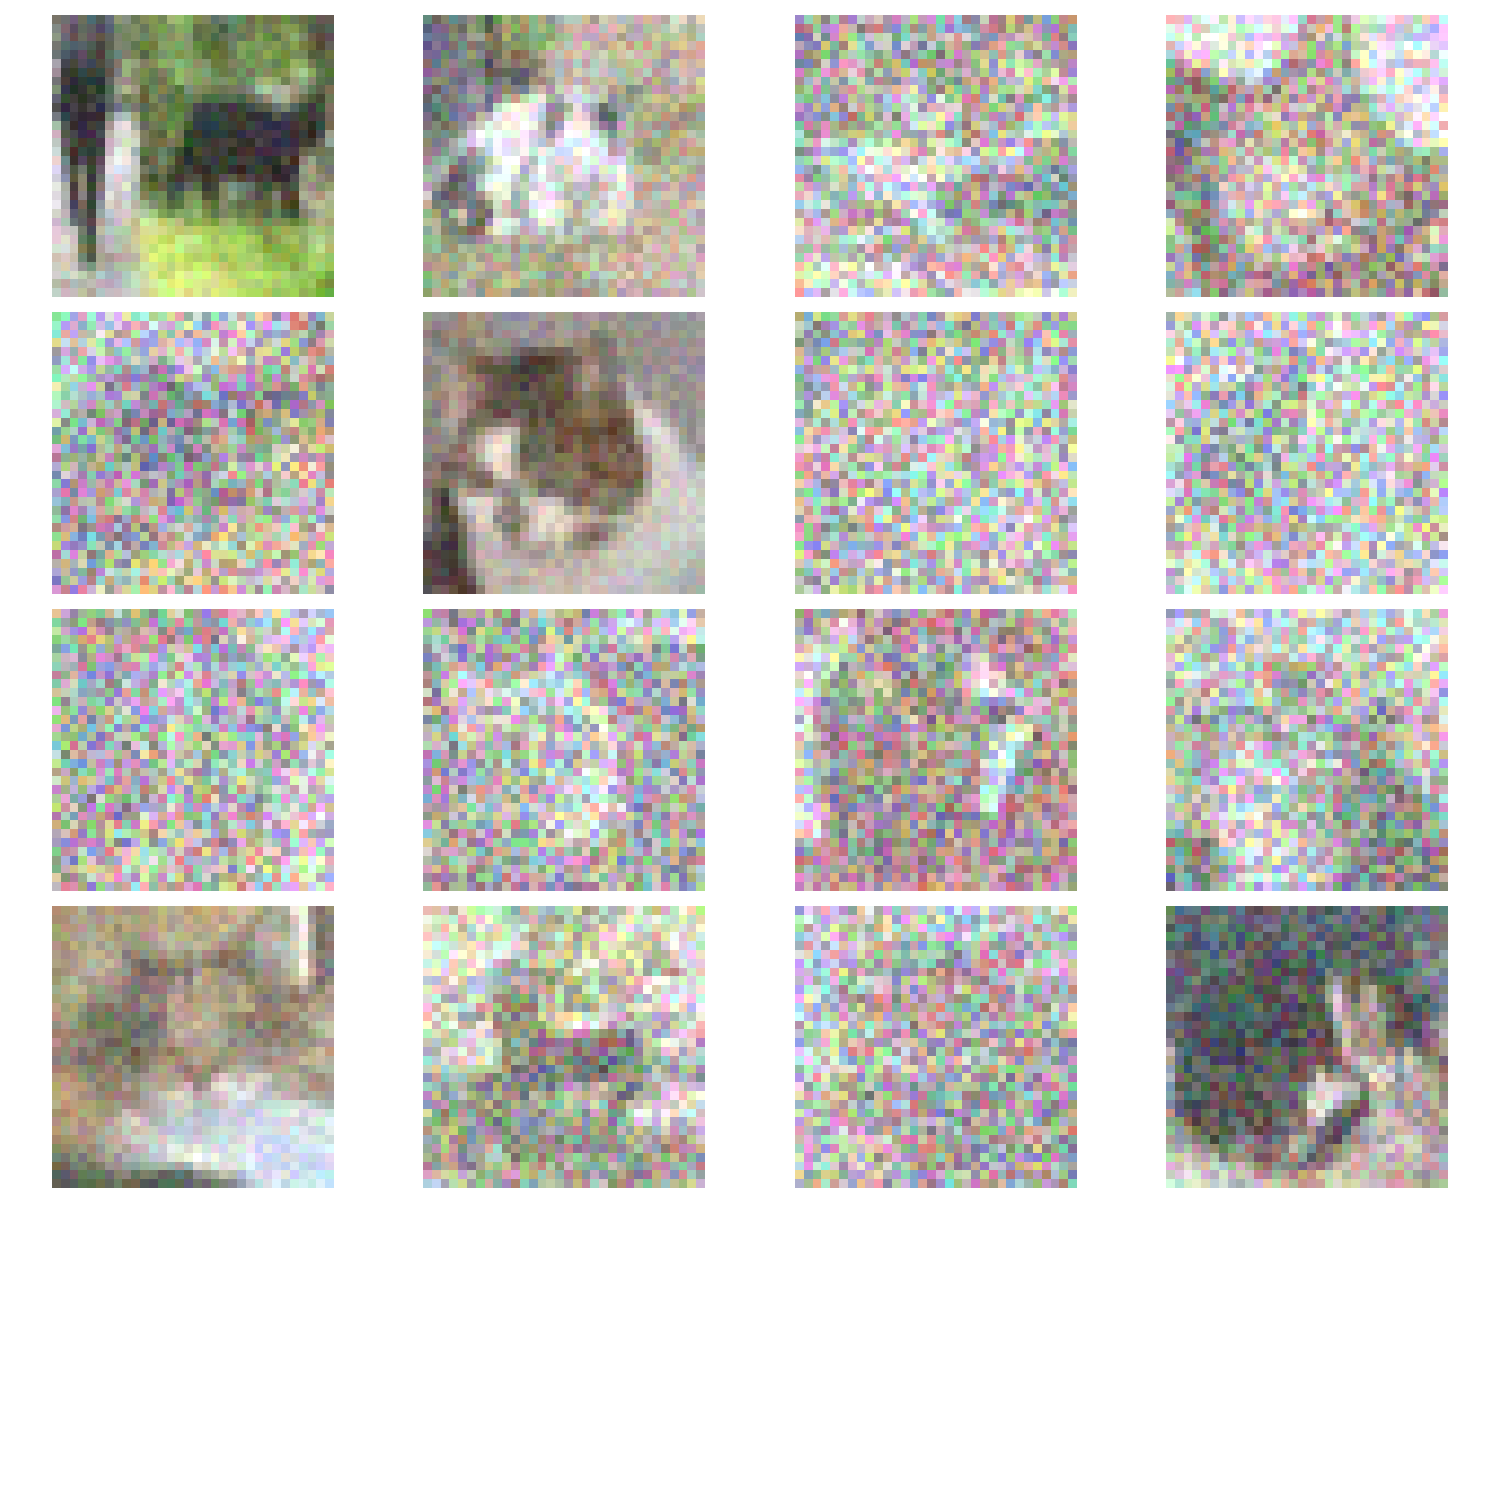
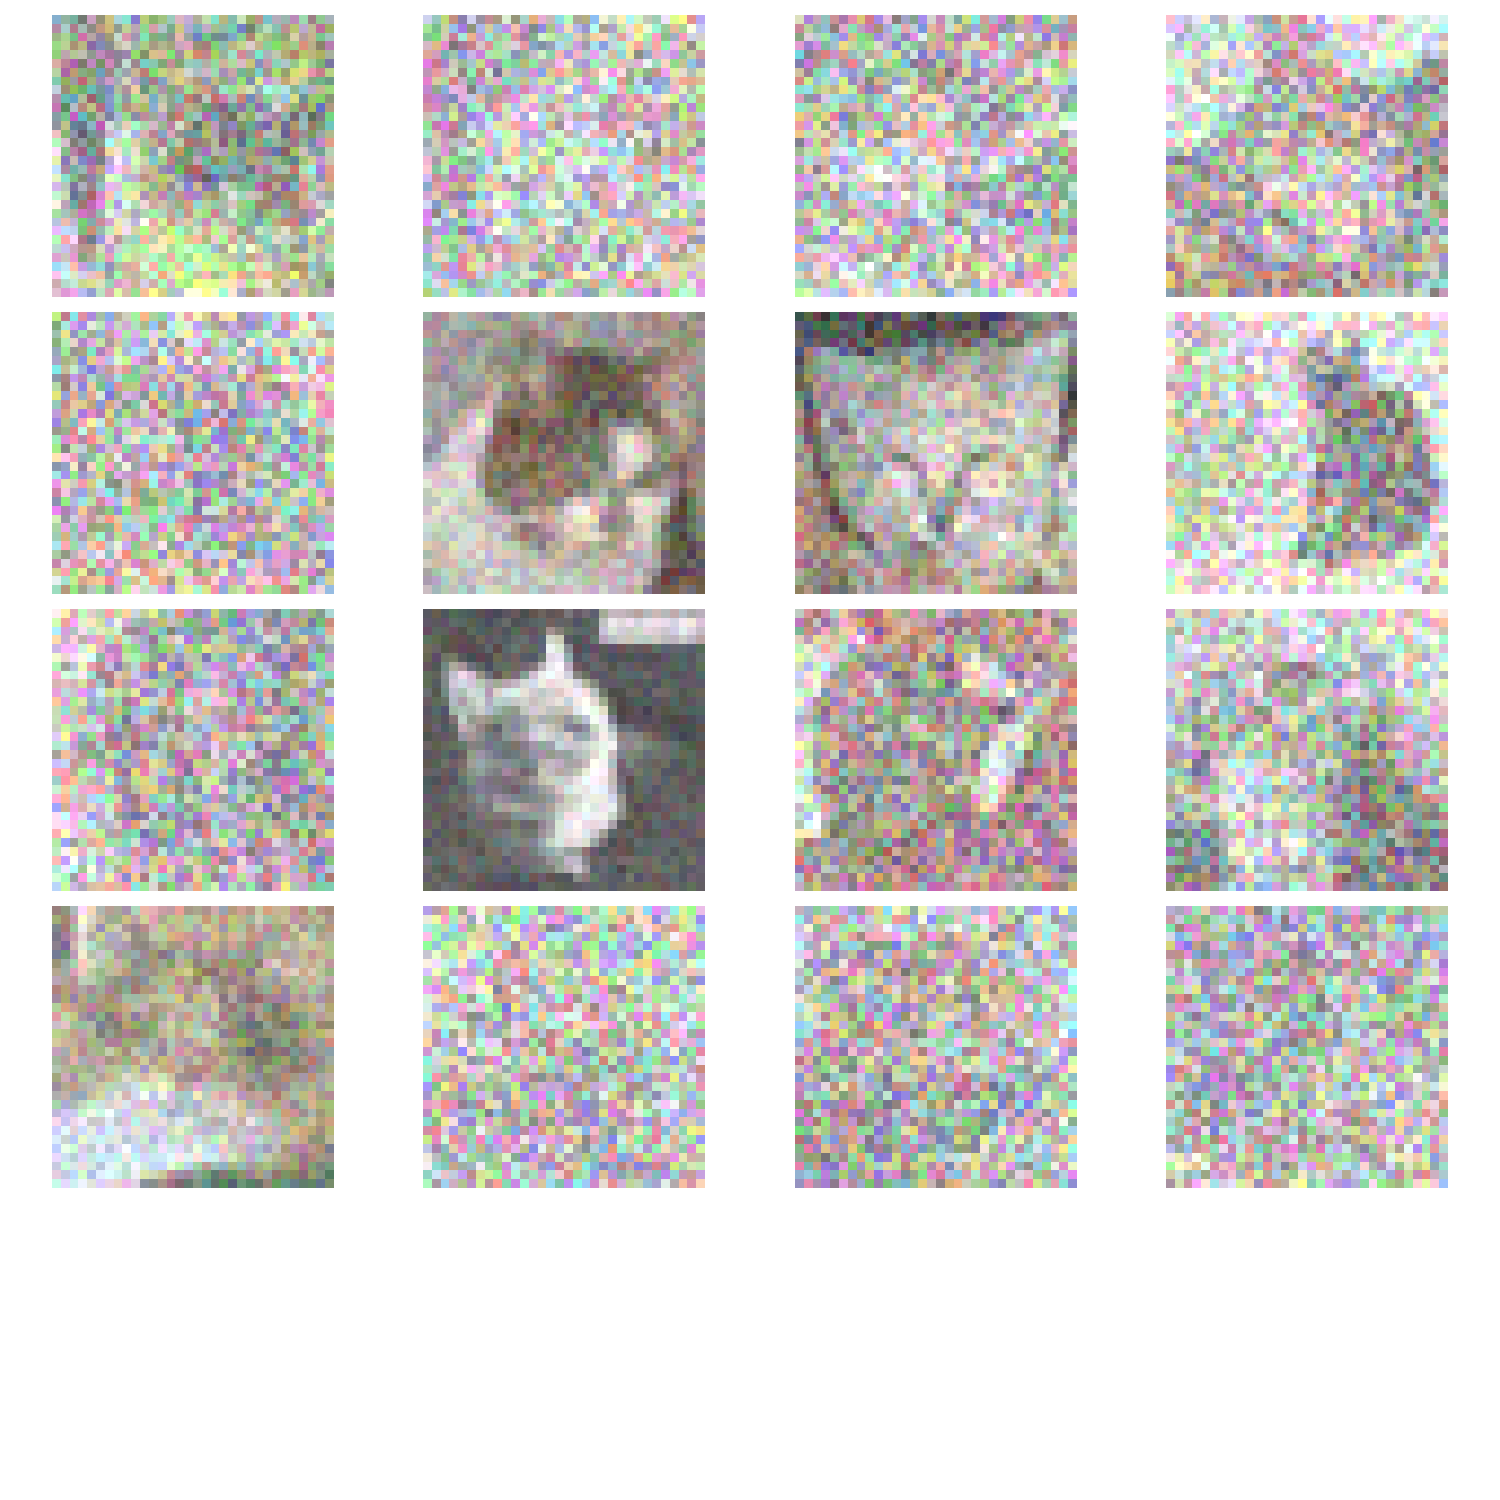
update train codes, seems to work now

diff --git a/diffusion.py b/diffusion.py
@@ -20,7 +20,7 @@ if __name__ == "__main__":
     batch_size = 16
     data_transform = cifar_data_transform()
     data = CifarDataset(img_dir="/home/anvuong/Desktop/datasets/CIFAR-10-images/train", classes=["cat"], transform=data_transform)
-    loader = DataLoader(data, batch_size=batch_size)
+    loader = DataLoader(data, batch_size=batch_size, drop_last=True)
 
     # Init diffusion params
     T = 1000
@@ -47,34 +47,38 @@ if __name__ == "__main__":
     opt = torch.optim.Adam(model.parameters(), lr=0.001)
     opt.zero_grad()
 
-    # Get a sample batch
-    x = next(iter(loader))
-    t = torch.randint(low=1, high=T-200, size=(batch_size,1))
+    # # Get a sample batch
+    # x = next(iter(loader))
+    # t = torch.randint(low=1, high=T-200, size=(batch_size,1))
         
-    x_in = forward_diffusion(x, t+200, alphas_cum, device="cpu")
-    x_out = forward_diffusion(x, t, alphas_cum, device="cpu")
+    # x_in = forward_diffusion(x, t+200, alphas_cum, device="cpu")
+    # x_out = forward_diffusion(x, t, alphas_cum, device="cpu")
 
-    show_images_batch("images/x_in.png", x_in)
-    show_images_batch("images/x_out.png", x_out)
+    # show_images_batch("images/x_in.png", x_in)
+    # show_images_batch("images/x_out.png", x_out)
+
+    # train params
+    epochs = 10
     
     # train loop
-    print("num batches = ", np.ceil(len(data)/batch_size).astype(int))
-    for idx, x in enumerate(iter(loader)):
-        t = torch.randint(low=1, high=T-1, size=(batch_size,1))
-        
-        x_in = forward_diffusion(x, t+1, alphas_cum, device="cpu")
-        x_out = forward_diffusion(x, t, alphas_cum, device="cpu")
+    print("num batches = ", len(loader))
+    for e in range(epochs):
+        for idx, x in enumerate(loader):
+            t = torch.randint(low=1, high=T-1, size=(batch_size,1))
+            
+            x_in = forward_diffusion(x, t+1, alphas_cum, device="cpu")
+            x_out = forward_diffusion(x, t, alphas_cum, device="cpu")
 
-        x_denoised = model.forward(x_in, t.squeeze())
-        loss = torch.nn.MSELoss()
-        L = loss(x_out, x_denoised)
-        print(f"idx {idx} loss={L.item()}")
-        if L == torch.nan:
-            show_images_batch("images/x_in.png", x_in)
-            show_images_batch("images/x_out.png", x_out)
-            show_images_batch("images/x_denoised.png", x_denoised)
-            print("Found nan, break")
-            break
-        
-        L.backward()
-        opt.step()
+            x_denoised = model.forward(x_in, t.squeeze())
+            loss = torch.nn.MSELoss()
+            L = loss(x_out, x_denoised)
+            print(f"epoch {e} iter {idx} loss={L.item()}")
+            if L == torch.nan:
+                show_images_batch("images/x_in.png", x_in)
+                show_images_batch("images/x_out.png", x_out)
+                show_images_batch("images/x_denoised.png", x_denoised)
+                print("Found nan, break")
+                break
+            
+            L.backward()
+            opt.step()
